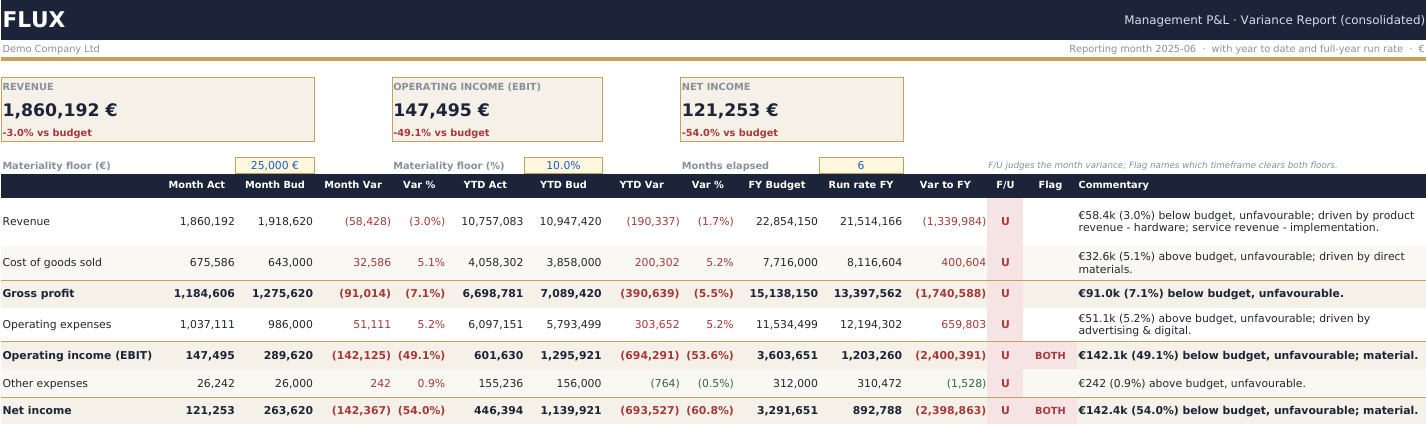
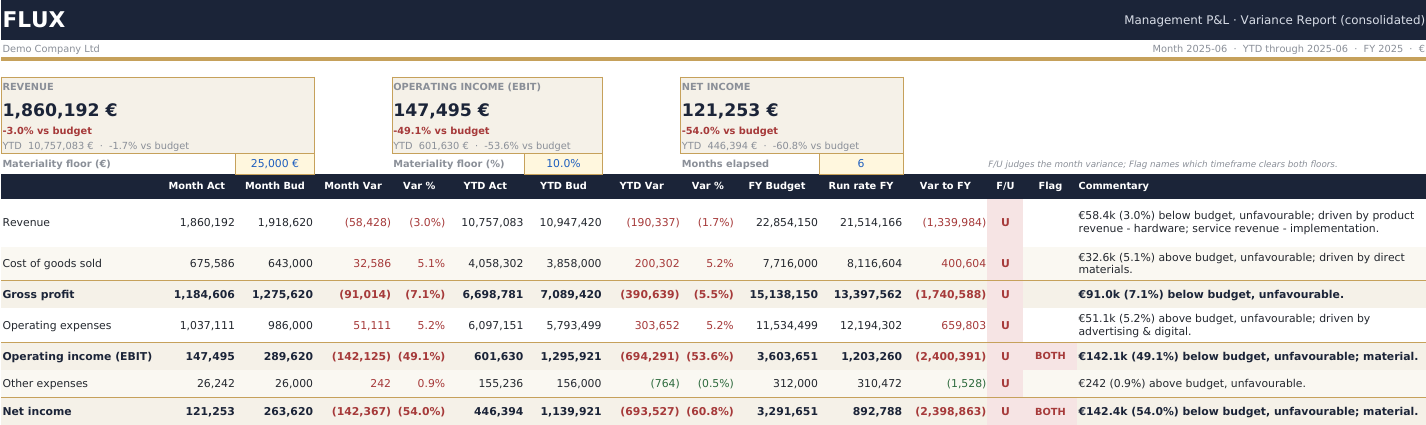
Use one meta line on every sheet and add the YTD read to the KPI cards

diff --git a/src/flux/reporting/client_pack.py b/src/flux/reporting/client_pack.py
@@ -30,7 +30,7 @@ from ..commentary import line_comments
 from ..engine import build_report, has_budget as _detect_budget
 from .styling import (
     FONT, GREEN_INK, RED_INK,
-    F_BODY, F_SMALL, F_SUB, F_INPUT, F_KPI_LABEL, F_KPI_VALUE, F_NOTE,
+    F_BODY, F_SMALL, F_SUB, F_INPUT, F_KPI_LABEL, F_KPI_VALUE, F_NOTE, F_META,
     FILL_IVORY, FILL_BAND, FILL_WHITE,
     CUR_EUR, PCT, KPI_DELTA,
     LEFT, RIGHT, WRAP, indent, band_fill,
@@ -46,7 +46,7 @@ from .rows import (BASE_KEYS, report_cf as _report_cf,
 from .formulas import (
     Layout,
     LEVER_EUR, LEVER_PCT, LEVER_MONTHS, LEV_E, LEV_P, LEV_M,
-    DEFAULT_ABS_THRESHOLD, DEFAULT_PCT_THRESHOLD,
+    DEFAULT_ABS_THRESHOLD, DEFAULT_PCT_THRESHOLD, meta_line,
     Variance, NO_BUDGET_NOTE, SINGLE_PERIOD_NOTE,
 )
 
@@ -82,7 +82,7 @@ def _gl_input(ws, agg, period, dims, budgeted=True):
     money = {"actual", "budget", "prior_year"}
     ints = {"period_no"}
 
-    title_band(ws, "GL Input · account level", f"Reporting month {period}  ·  \u20ac",
+    title_band(ws, "GL Input · account level", meta_line(period),
                    get_column_letter(len(spec)))
     headers(ws, 5, [l for _k, l, _w in spec],
                 center_from=len(spec) - 2, center_to=len(spec))
@@ -155,8 +155,7 @@ def _pnl(ws, gl, glf, gll, GLC, period, comments, report, var, perno=None,
     L = Layout(1)
     com = get_column_letter(L.ncols + 1)
     title_band(ws, "Management P&L · Variance Report",
-               f"Reporting month {period}  ·  with year to date and full-year run rate"
-               f"  ·  \u20ac", com)
+               meta_line(period, single_period), com)
     R = lambda c: f"'{gl}'!${c}${glf}:${c}${gll}"
     cat, act, bud = R(GLC["category"]), R(GLC["actual"]), R(GLC["budget"])
     mflt, yflt = _filters(R, GLC, perno)
@@ -176,6 +175,10 @@ def _pnl(ws, gl, glf, gll, GLC, period, comments, report, var, perno=None,
     ws["M9"] = ("F/U judges the month variance; Flag names which timeframe "
                 "clears both floors.")
     ws["M9"].font = F_NOTE; ws["M9"].alignment = LEFT
+    # The KPI cards now run to row 8, so the lever row sits directly beneath
+    # them. A little more height is what keeps it from reading as a fourth line
+    # of the card.
+    ws.row_dimensions[9].height = 20
 
     headers(ws, 10, L.headers("") + ["Commentary"], center_from=2,
             center_to=L.ncols)
@@ -228,13 +231,17 @@ def _pnl(ws, gl, glf, gll, GLC, period, comments, report, var, perno=None,
     last = r - 1
     _report_cf(ws, L, first, last, rows_higher, rows_lower, var=var)
 
+    # The big number is the month - the sheet is titled by it, F/U judges it and
+    # the commentary describes it - with the year to date beneath as context, so
+    # the card answers "and how is the year going" without the reader scanning
+    # across to the YTD block.
     for (title, key), (c1, c2) in zip(
         [("REVENUE", "Revenue"), ("OPERATING INCOME (EBIT)", "Operating income (EBIT)"),
          ("NET INCOME", "Net income")],
         [(1, 3), (5, 7), (9, 11)]):
         lr = label_row[key]; fav = report[report["line"] == key].iloc[0]["fav_unfav"] == "F"
         Lc = get_column_letter(c1); Rt = get_column_letter(c2)
-        for rr in (5, 6, 7):
+        for rr in (5, 6, 7, 8):
             ws.merge_cells(f"{Lc}{rr}:{Rt}{rr}")
             for cc in range(c1, c2 + 1):
                 ws.cell(row=rr, column=cc).fill = FILL_IVORY
@@ -248,9 +255,15 @@ def _pnl(ws, gl, glf, gll, GLC, period, comments, report, var, perno=None,
         ws[f"{Lc}7"].font = Font(name=FONT, size=9, bold=True,
                                  color=GREEN_INK if fav else RED_INK)
         ws[f"{Lc}7"].alignment = LEFT
-        outline(ws, 5, c1, 7, c2, GOLD_SIDE)
+        # Muted, and built as text: the YTD line is context for the month above
+        # it, so it must not compete with the green or red delta.
+        ws[f"{Lc}8"] = (f'="YTD  "&TEXT({L.yact}{lr},"#,##0")&" \u20ac"'
+                        f'&IF(ISNUMBER({L.ypct}{lr}),"  \u00b7  "'
+                        f'&TEXT({L.ypct}{lr},"+0.0%;-0.0%")&" vs budget","")')
+        ws[f"{Lc}8"].font = F_META; ws[f"{Lc}8"].alignment = LEFT
+        outline(ws, 5, c1, 8, c2, GOLD_SIDE)
     ws.row_dimensions[5].height = 18; ws.row_dimensions[6].height = 26
-    ws.row_dimensions[7].height = 16
+    ws.row_dimensions[7].height = 14; ws.row_dimensions[8].height = 14
     widths(ws, width_list)
 
     footnote = last + 2
@@ -265,7 +278,8 @@ def _pnl(ws, gl, glf, gll, GLC, period, comments, report, var, perno=None,
 # ---------------------------------------------------------------------------
 # By Entity
 # ---------------------------------------------------------------------------
-def _by_entity(ws, values, gl, glf, gll, GLC, period, var, perno=None):
+def _by_entity(ws, values, gl, glf, gll, GLC, period, var, perno=None,
+               single_period=False):
     """Net income per legal entity, on the columns every other sheet uses.
 
     Net income - revenue less spend - is the one measure that consolidates to
@@ -274,8 +288,7 @@ def _by_entity(ws, values, gl, glf, gll, GLC, period, var, perno=None):
     """
     hide_grid(ws)
     L = Layout(1)
-    title_band(ws, "By Entity · consolidation",
-               f"Reporting month {period}  ·  with year to date  ·  \u20ac", L.last_col)
+    title_band(ws, "By Entity · consolidation", meta_line(period, single_period), L.last_col)
     headers(ws, 5, L.headers("Entity"), center_from=2, center_to=L.ncols)
     R = lambda c: f"'{gl}'!${c}${glf}:${c}${gll}"
     dim, cat = R(GLC["entity"]), R(GLC["category"])
@@ -343,12 +356,12 @@ def _group_expense_types(values: list[str]) -> list[tuple[str, list[str]]]:
     return groups
 
 
-def _expense_sheet(ws, groups, gl, glf, gll, GLC, period, var, perno=None):
+def _expense_sheet(ws, groups, gl, glf, gll, GLC, period, var, perno=None,
+                   single_period=False):
     """Expense report by type, grouped with subtotals."""
     hide_grid(ws)
     L = Layout(1)
-    title_band(ws, "Expense Report · by expense type",
-               f"Reporting month {period}  ·  with year to date  ·  \u20ac", L.last_col)
+    title_band(ws, "Expense Report · by expense type", meta_line(period, single_period), L.last_col)
     R = lambda c: f"'{gl}'!${c}${glf}:${c}${gll}"
     dim, cat = R(GLC["expense_type"]), R(GLC["category"])
     act, bud = R(GLC["actual"]), R(GLC["budget"])
@@ -416,11 +429,11 @@ def _expense_sheet(ws, groups, gl, glf, gll, GLC, period, var, perno=None):
 # ---------------------------------------------------------------------------
 # Departments & cost centres (hierarchy read from the data)
 # ---------------------------------------------------------------------------
-def _departments(ws, hierarchy, gl, glf, gll, GLC, period, has_cc, var, perno=None):
+def _departments(ws, hierarchy, gl, glf, gll, GLC, period, has_cc, var,
+                 perno=None, single_period=False):
     hide_grid(ws)
     L = Layout(1)
-    title_band(ws, "Departments & Cost Centres · spend variance",
-               f"Reporting month {period}  ·  with year to date  ·  \u20ac", L.last_col)
+    title_band(ws, "Departments & Cost Centres · spend variance", meta_line(period, single_period), L.last_col)
     headers(ws, 5, L.headers("Department / Cost centre"), center_from=2,
             center_to=L.ncols)
     R = lambda c: f"'{gl}'!${c}${glf}:${c}${gll}"
@@ -487,11 +500,11 @@ def _departments(ws, hierarchy, gl, glf, gll, GLC, period, has_cc, var, perno=No
 # ---------------------------------------------------------------------------
 # Drivers
 # ---------------------------------------------------------------------------
-def _drivers(ws, agg, gl, glf, gll, GLC, period, var, perno=None):
+def _drivers(ws, agg, gl, glf, gll, GLC, period, var, perno=None,
+             single_period=False):
     hide_grid(ws)
     L = Layout(3)
-    title_band(ws, "Variance Drivers · account level",
-               f"Reporting month {period}  ·  with year to date  ·  \u20ac", L.last_col)
+    title_band(ws, "Variance Drivers · account level", meta_line(period, single_period), L.last_col)
     headers(ws, 5, L.headers("Account", "Account name", "Category"),
             center_from=4, center_to=L.ncols)
     R = lambda c: f"'{gl}'!${c}${glf}:${c}${gll}"
@@ -610,13 +623,14 @@ def build_client_pack(agg: pd.DataFrame, period: str | None = None,
                 if v and v != "(multiple)"]
         if vals:
             _expense_sheet(wb.create_sheet("Expense Report"), _group_expense_types(vals),
-                           "GL Input", glf, gll, GLC, period, var, perno)
+                           "GL Input", glf, gll, GLC, period, var, perno,
+                           single_period)
             order.append("Expense Report")
     if "entity" in dims:
         vals = [v for v in month["entity"].unique() if v and v != "(multiple)"]
         if len(vals) > 1:
             _by_entity(wb.create_sheet("By Entity"), sorted(vals), "GL Input",
-                       glf, gll, GLC, period, var, perno)
+                       glf, gll, GLC, period, var, perno, single_period)
             order.append("By Entity")
     if "department" in dims:
         spend = month[month["category"] != "Revenue"]
@@ -629,10 +643,11 @@ def build_client_pack(agg: pd.DataFrame, period: str | None = None,
         if hierarchy:
             _departments(wb.create_sheet("Departments & CCs"), hierarchy, "GL Input",
                          glf, gll, GLC, period, has_cc and any(hierarchy.values()),
-                         var, perno)
+                         var, perno, single_period)
             order.append("Departments & CCs")
 
-    _drivers(wb.create_sheet("Drivers"), agg, "GL Input", glf, gll, GLC, period, var, perno)
+    _drivers(wb.create_sheet("Drivers"), agg, "GL Input", glf, gll, GLC, period,
+             var, perno, single_period)
     order += ["Drivers", "GL Input"]
     for i, name in enumerate(order):
         wb.move_sheet(name, -wb.sheetnames.index(name) + i)

diff --git a/src/flux/reporting/demo_pack.py b/src/flux/reporting/demo_pack.py
@@ -37,6 +37,7 @@ from ..engine import build_report
 from .styling import (
     FONT, GREEN_INK, RED_INK,
     F_HEAD, F_BODY, F_SMALL, F_SUB, F_INPUT, F_KPI_LABEL, F_KPI_VALUE, F_NOTE,
+    F_META,
     FILL_HEAD, FILL_IVORY, FILL_BAND, FILL_WHITE,
     CUR2, CUR_EUR, CUR2_EUR, PCT, RATE, KPI_DELTA, LCY_FORMATS,
     CENTER, LEFT, RIGHT, WRAP, indent, band_fill,
@@ -53,7 +54,7 @@ from .rows import (report_cf as _report_cf, write_sum_tail as _sum_tail,
 from .formulas import (
     Layout,
     LEVER_EUR, LEVER_PCT, LEVER_MONTHS, LEV_E, LEV_P, LEV_M,
-    DEFAULT_ABS_THRESHOLD, DEFAULT_PCT_THRESHOLD,
+    DEFAULT_ABS_THRESHOLD, DEFAULT_PCT_THRESHOLD, meta_line,
 )
 
 
@@ -255,8 +256,7 @@ def _write_pnl(ws, gl, glf, gll, bud, budf, budl, period, comments, report) -> N
     L = Layout(1)
     com = get_column_letter(L.ncols + 1)
     title_band(ws, "Management P&L · Variance Report (consolidated)",
-               f"Reporting month {period}  ·  with year to date and full-year run rate"
-               f"  ·  \u20ac", com)
+               meta_line(period), com)
     gR = lambda col: f"'{gl}'!${col}${glf}:${col}${gll}"
     bR = lambda col: f"'{bud}'!${col}${budf}:${col}${budl}"
     perno = int(period[:4]) * 100 + int(period[5:7])
@@ -275,6 +275,10 @@ def _write_pnl(ws, gl, glf, gll, bud, budf, budl, period, comments, report) -> N
     ws["M9"] = ("F/U judges the month variance; Flag names which timeframe "
                 "clears both floors.")
     ws["M9"].font = F_NOTE; ws["M9"].alignment = LEFT
+    # The KPI cards now run to row 8, so the lever row sits directly beneath
+    # them. A little more height is what keeps it from reading as a fourth line
+    # of the card.
+    ws.row_dimensions[9].height = 20
 
     headers(ws, 10, L.headers("") + ["Commentary"], center_from=2,
             center_to=L.ncols)
@@ -325,12 +329,18 @@ def _write_pnl(ws, gl, glf, gll, bud, budf, budl, period, comments, report) -> N
     _report_cf(ws, L, first, last, rows_higher, rows_lower)
 
     # ---- KPI cards ----
+    # The big number is the month, because that is what the sheet is titled, what
+    # F/U judges and what the commentary describes - a card that headlined a
+    # different timeframe from the table beneath it would be read as a third
+    # figure. But "how is the year going" is the next question, so the card
+    # answers it in place rather than making the reader scan across to the YTD
+    # block themselves.
     cards = [("REVENUE", "Revenue"), ("OPERATING INCOME (EBIT)", "Operating income (EBIT)"),
              ("NET INCOME", "Net income")]
     for (title, key), (c1, c2) in zip(cards, [(1, 3), (5, 7), (9, 11)]):
         lr = label_row[key]; fav = report[report["line"] == key].iloc[0]["fav_unfav"] == "F"
         Lc = get_column_letter(c1); Rt = get_column_letter(c2)
-        for rr in (5, 6, 7):
+        for rr in (5, 6, 7, 8):
             ws.merge_cells(f"{Lc}{rr}:{Rt}{rr}")
             for cc in range(c1, c2 + 1):
                 ws.cell(row=rr, column=cc).fill = FILL_IVORY
@@ -344,9 +354,15 @@ def _write_pnl(ws, gl, glf, gll, bud, budf, budl, period, comments, report) -> N
         ws[f"{Lc}7"].font = Font(name=FONT, size=9, bold=True,
                                  color=GREEN_INK if fav else RED_INK)
         ws[f"{Lc}7"].alignment = LEFT
-        outline(ws, 5, c1, 7, c2, GOLD_SIDE)
+        # Muted, and built as text: the YTD line is context for the month above
+        # it, so it must not compete with the green or red delta.
+        ws[f"{Lc}8"] = (f'="YTD  "&TEXT({L.yact}{lr},"#,##0")&" \u20ac"'
+                        f'&IF(ISNUMBER({L.ypct}{lr}),"  \u00b7  "'
+                        f'&TEXT({L.ypct}{lr},"+0.0%;-0.0%")&" vs budget","")')
+        ws[f"{Lc}8"].font = F_META; ws[f"{Lc}8"].alignment = LEFT
+        outline(ws, 5, c1, 8, c2, GOLD_SIDE)
     ws.row_dimensions[5].height = 18; ws.row_dimensions[6].height = 26
-    ws.row_dimensions[7].height = 16
+    ws.row_dimensions[7].height = 14; ws.row_dimensions[8].height = 14
 
     widths(ws, L.widths(26) + [COMMENT_WIDTH])
     quiet_indicators(ws, 5, last)
@@ -359,10 +375,11 @@ def _write_pnl(ws, gl, glf, gll, bud, budf, budl, period, comments, report) -> N
 def _write_expense_report(ws, gl, glf, gll, bud, budf, budl, period) -> None:
     hide_grid(ws)
     L = Layout(1)
-    # The fiscal year comes from the period, not a constant: hardcoded, this
-    # header still read "FY 2025" for a 2026 close.
-    title_band(ws, "Expense Report · by expense type",
-               f"Reporting month {period}  ·  YTD & FY {period[:4]}  ·  \u20ac",
+    # The meta line is built centrally, so the fiscal year follows the period
+    # rather than a constant: hardcoded, this header still read "FY 2025" for a
+    # 2026 close, and it phrased the same three horizons differently from the
+    # sheet next to it.
+    title_band(ws, "Expense Report · by expense type", meta_line(period),
                L.last_col)
     gR = lambda col: f"'{gl}'!${col}${glf}:${col}${gll}"
     bR = lambda col: f"'{bud}'!${col}${budf}:${col}${budl}"
@@ -452,8 +469,7 @@ def _write_by_entity(ws, ent_var, gl, glf, gll, bud, budf, budl, period) -> None
     """
     hide_grid(ws)
     L = Layout(1)
-    title_band(ws, "By Entity · net income by legal entity",
-               f"Reporting month {period}  ·  with year to date  ·  \u20ac", L.last_col)
+    title_band(ws, "By Entity · net income by legal entity", meta_line(period), L.last_col)
     headers(ws, 5, L.headers("Entity"), center_from=2, center_to=L.ncols)
     gR = lambda col: f"'{gl}'!${col}${glf}:${col}${gll}"
     bR = lambda col: f"'{bud}'!${col}${budf}:${col}${budl}"
@@ -518,8 +534,7 @@ def _write_cost_centres(ws, dept_var, gl, glf, gll, bud, budf, budl, period) -> 
     """Departmental spend variance with each department's cost centres nested."""
     hide_grid(ws)
     L = Layout(1)
-    title_band(ws, "Departments & Cost Centres · spend variance",
-               f"Reporting month {period}  ·  with year to date  ·  \u20ac", L.last_col)
+    title_band(ws, "Departments & Cost Centres · spend variance", meta_line(period), L.last_col)
     headers(ws, 5, L.headers("Department / Cost Centre"), center_from=2,
             center_to=L.ncols)
 
@@ -603,8 +618,7 @@ def _write_cost_centres(ws, dept_var, gl, glf, gll, bud, budf, budl, period) -> 
 def _write_drivers(ws, agg, gl, glf, gll, bud, budf, budl, period) -> None:
     hide_grid(ws)
     L = Layout(3)
-    title_band(ws, "Variance Drivers · account level",
-               f"Reporting month {period}  ·  with year to date  ·  \u20ac", L.last_col)
+    title_band(ws, "Variance Drivers · account level", meta_line(period), L.last_col)
     headers(ws, 5, L.headers("Account", "Name", "Category"),
             center_from=4, center_to=L.ncols)
     gR = lambda col: f"'{gl}'!${col}${glf}:${col}${gll}"

diff --git a/src/flux/reporting/formulas.py b/src/flux/reporting/formulas.py
@@ -251,3 +251,24 @@ LAYOUT_NOTE = (
     "and the full year projected at the current run rate. F/U judges the month "
     "variance; Flag names which timeframe clears both materiality floors."
 )
+
+
+def meta_line(period, single_period: bool = False) -> str:
+    """The right-hand line under the masthead, identical on every sheet.
+
+    Every sheet now reports the same three horizons, so every sheet names them
+    the same way. Three different phrasings were in use before - one sheet said
+    "with year to date", another "YTD & FY 2025", a third listed the run rate -
+    which read as three different reports.
+
+    "YTD 2025-06" on its own would be ambiguous: it does not say whether that is
+    the year through June or the month of June. Naming the window closes it.
+    """
+    text = str(period)
+    if len(text) != 7 or text[4] != "-" or not (text[:4] + text[5:]).isdigit():
+        # A file with no period column cannot be cut by time at all.
+        return "All periods in the file  \u00b7  \u20ac"
+    if single_period:
+        return f"Month {text}  \u00b7  single period in file  \u00b7  \u20ac"
+    return (f"Month {text}  \u00b7  YTD through {text}  \u00b7  FY {text[:4]}"
+            f"  \u00b7  \u20ac")

diff --git a/README.md b/README.md
@@ -54,7 +54,7 @@ automates.
 
 ## Screenshots
 
-**Management P&L — month, year to date and full-year run rate, with the pack's three lever cells**
+**Management P&L — the month headlined, the year to date beneath it, and the pack's three lever cells**
 
 ![Management P&L with month and YTD variances, the run rate against the full-year plan, F/U badges, materiality flags and per-line commentary](docs/pnl-report.png)
 
@@ -133,6 +133,16 @@ sheet points at them rather than holding its own copy:
 | `C9` | materiality floor, EUR |
 | `G9` | materiality floor, % |
 | `K9` | months elapsed, which drives every run rate in the pack |
+
+Every sheet also carries the same line under the masthead — `Month 2025-06 · YTD
+through 2025-06 · FY 2025 · €` — because every sheet now reports the same three
+horizons. "YTD 2025-06" on its own would not say whether that is the year through
+June or the month of June, so the window is named.
+
+The KPI cards headline the **month**, with the year to date muted beneath. The
+month is what the sheet is titled by, what F/U judges and what the commentary
+describes; a card that headlined a different timeframe from the table under it
+would read as a third figure rather than a summary of the first.
 
 Change one number and the whole pack re-flags or re-projects. That is enforced by
 the test suite, which reads the saved workbook back and checks that each sheet's
